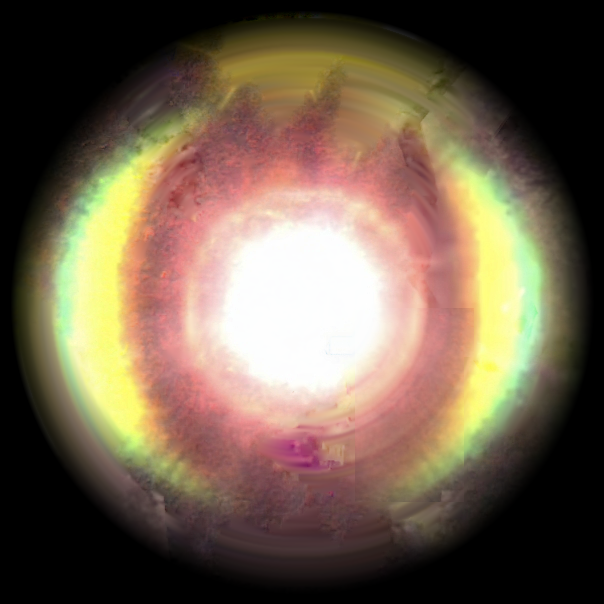
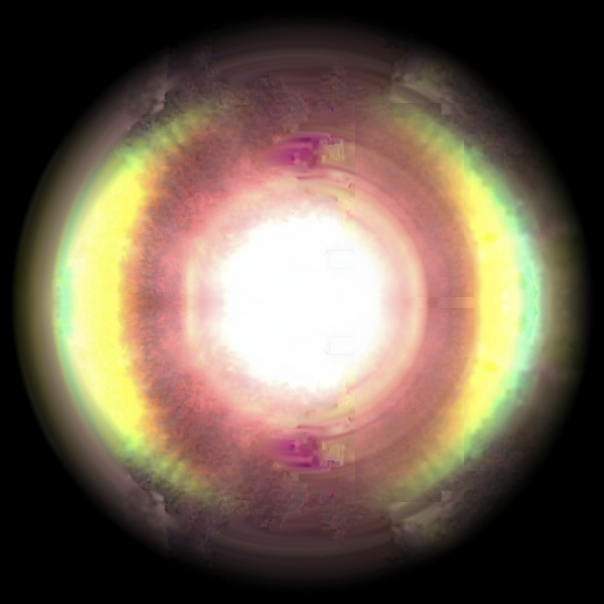
Efekt 10 küre (referans): üst yarı alt yarının dikey aynası
Claude-Session: https://claude.ai/code/session_01E9c1WiJsMc9gXSJZ9D4z6g

diff --git a/arayuz/araclar/efekt10/kure_ref.py b/arayuz/araclar/efekt10/kure_ref.py
@@ -51,6 +51,9 @@ ay=E[yy,mx]; mor=(ay[...,0]>ay[...,1]+0.18)&(ay[...,2]>ay[...,1]+0.08)
 oyd=np.where(mor[...,None],dol,0.5*ay+0.5*dol)
 dol=np.where(oy[...,None],oyd,dol)
 T=E*(1-w)+dol*w
+# ust yari = alt yarinin dikey aynasi (kullanici: alt %50 dogru renkler); merkez cizgisinde 12 px yumusak gecis
+ust=np.clip((CY+6-yy)/12,0,1)[...,None]
+T=T*(1-ust)+T[my,xx]*ust
 # daire disi (isaretli bolge disi) yumusakca saydam
 T=T*np.clip((RMAX+30-R)/45,0,1)[...,None]
 os.makedirs(K,exist_ok=True)
